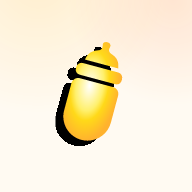
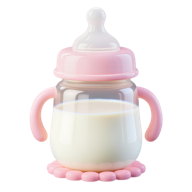
发布：前端更新
时间：2026-02-14 09:37
文件：10

修改日志：
- 修改 frontend/index.html
- 修改 frontend/src/components/FeedingTimeline24.vue
- 修改 frontend/src/pages.json
- 修改 frontend/src/pages/feeding-settings/index.vue
- 修改 frontend/src/pages/home/index.vue
- 修改 frontend/src/static/app-icon/apple-touch-icon.png
- 修改 frontend/src/static/app-icon/favicon-16.png
- 修改 frontend/src/static/app-icon/favicon-32.png
- 修改 frontend/src/static/app-icon/icon-192.png
- 修改 frontend/src/static/app-icon/icon-512.png

diff --git a/frontend/src/pages/home/index.vue b/frontend/src/pages/home/index.vue
@@ -154,7 +154,7 @@
 
         <view class="focus-card">
           <FeedingTimeline24
-            :marks="todayTimelineMarks"
+            :marks="homeTimelineMarks"
             :selectedKey="selectedTimelineKey"
             :nowMs="nowTickMs"
             :nextMs="nextFeedingTimestampMs"
@@ -730,7 +730,15 @@ import { formatZodiacText } from '@/utils/zodiac'
     },
 
     homeStatusText() {
-      if (this.todayCount <= 0) return '今天还没记录'
+      if (this.todayCount <= 0) {
+        const standard = Number(this.todayTargetMl || 0)
+        const expected = Number(this.expectedNowMl || 0)
+        if (!Number.isFinite(standard) || standard <= 0) return '今天还没记录'
+        const ratio = standard > 0 ? expected / standard : 0
+        if (ratio >= 0.75) return '今天还没记录（警报）'
+        if (ratio >= 0.55) return '今天还没记录（偏晚）'
+        return '今天还没记录'
+      }
 
       const interval = this.getIntervalInsight()
       if (interval?.status === 'overdue') return '该喂奶了'
@@ -756,8 +764,16 @@ import { formatZodiacText } from '@/utils/zodiac'
     },
 
     insightLevel() {
-      // 没有任何记录时，不做“优/差”判断，先引导记录，避免制造焦虑。
-      if (this.todayCount <= 0) return 'unknown'
+      // 没有任何记录时：早期不制造焦虑；但如果已经到傍晚仍为 0，则给出醒目的红色信号。
+      if (this.todayCount <= 0) {
+        const standard = Number(this.todayTargetMl || 0)
+        const expected = Number(this.expectedNowMl || 0)
+        if (!Number.isFinite(standard) || standard <= 0) return 'unknown'
+        const ratio = standard > 0 ? expected / standard : 0
+        if (ratio >= 0.75) return 'alert'
+        if (ratio >= 0.55) return 'attention'
+        return 'unknown'
+      }
 
       const feedingStatus = this.feedingStatusForHome()
       const interval = this.getIntervalInsight()
@@ -969,6 +985,68 @@ import { formatZodiacText } from '@/utils/zodiac'
       const t = this.formatClockText(ms)
       if (!t || t === '--:--') return ''
       return amountText ? `${t} · ${amountText}` : t
+    },
+
+    // 时间轴：预估“今天后续应喂时间点”（辅助规划睡眠）
+    // - 仅在今日已有记录时展示（避免“未记录但已喂”的误判）
+    // - 预估点只做视觉辅助，不可点击/不参与统计
+    todayPlanTimelineMarks() {
+      const list = Array.isArray(this.todayFeedings) ? this.todayFeedings : []
+      if (list.length <= 0) return []
+
+      const fs = this.feedingSettings || null
+      const dayStart = Number(fs?.day_start_hour ?? 6)
+      const dayEnd = Number(fs?.day_end_hour ?? 18)
+      const dayInt = Number(fs?.day_interval ?? 3)
+      const nightInt = Number(fs?.night_interval ?? 5)
+
+      const safeDayStart = Number.isFinite(dayStart) ? Math.max(0, Math.min(23, dayStart)) : 6
+      const safeDayEnd = Number.isFinite(dayEnd) ? Math.max(0, Math.min(23, dayEnd)) : 18
+      const safeDayInt = Number.isFinite(dayInt) && dayInt > 0 ? dayInt : 3
+      const safeNightInt = Number.isFinite(nightInt) && nightInt > 0 ? nightInt : 5
+
+      const base = Number(this.nextFeedingTimestampMs || 0)
+      if (!Number.isFinite(base) || base <= 0) return []
+
+      const nowMs = Number(this.nowTickMs || Date.now())
+      const now = new Date(nowMs)
+      if (Number.isNaN(now.getTime())) return []
+      const start = new Date(now.getFullYear(), now.getMonth(), now.getDate(), 0, 0, 0, 0).getTime()
+      const end = start + 24 * 60 * 60 * 1000
+
+      // 只画“未来”预估点：避免和已记录点混在一起造成误读
+      let t = Math.max(base, nowMs)
+      if (t < start || t >= end) return []
+
+      const marks = []
+      const maxMarks = 12
+      let guard = 0
+      while (t < end && guard < maxMarks) {
+        const d = new Date(t)
+        if (Number.isNaN(d.getTime())) break
+        const minutes = d.getHours() * 60 + d.getMinutes()
+        const leftPercent = Math.max(0, Math.min(100, (Number(minutes) / 1440) * 100))
+        marks.push({
+          key: `p-${t}`,
+          kind: 'plan',
+          leftPercent: leftPercent.toFixed(2),
+        })
+
+        const hh = d.getHours()
+        const interval = hh >= safeDayStart && hh < safeDayEnd ? safeDayInt : safeNightInt
+        const next = t + interval * 60 * 60 * 1000
+        if (!Number.isFinite(next) || next <= t) break
+        t = next
+        guard++
+      }
+
+      return marks
+    },
+
+    homeTimelineMarks() {
+      const real = Array.isArray(this.todayTimelineMarks) ? this.todayTimelineMarks : []
+      const plan = Array.isArray(this.todayPlanTimelineMarks) ? this.todayPlanTimelineMarks : []
+      return plan.length ? real.concat(plan) : real
     },
 
     todayTimelineMarks() {

diff --git a/frontend/src/pages/feeding-settings/index.vue b/frontend/src/pages/feeding-settings/index.vue
@@ -71,11 +71,51 @@
         />
       </view>
 
+    <!-- 时间段（影响“白天/晚上”的间隔应用范围） -->
+    <view class="section">
+      <view class="section-header">
+        <text class="section-title">时间段</text>
+        <text class="section-desc">把“晚上”对齐你的睡觉时间，能更少夜醒</text>
+      </view>
+
+      <view class="range-row">
+        <view class="range-col">
+          <text class="range-label">白天开始</text>
+          <scroll-view class="number-picker" scroll-x>
+            <view
+              v-for="h in hourNumbers"
+              :key="'ds-' + h"
+              :class="['number-item', { active: h === settings.dayStartHour }]"
+              @click="selectDayStartHour(h)"
+            >
+              <text>{{ pad2(h) }}</text>
+            </view>
+          </scroll-view>
+        </view>
+
+        <view class="range-col">
+          <text class="range-label">白天结束</text>
+          <scroll-view class="number-picker" scroll-x>
+            <view
+              v-for="h in hourNumbers"
+              :key="'de-' + h"
+              :class="['number-item', { active: h === settings.dayEndHour }]"
+              @click="selectDayEndHour(h)"
+            >
+              <text>{{ pad2(h) }}</text>
+            </view>
+          </scroll-view>
+        </view>
+      </view>
+
+      <text class="picker-hint">白天：{{ pad2(settings.dayStartHour) }}:00-{{ pad2(settings.dayEndHour) }}:00 · 晚上：{{ pad2(settings.dayEndHour) }}:00-{{ pad2(settings.dayStartHour) }}:00</text>
+    </view>
+
     <!-- 白天设置 -->
     <view class="section">
       <view class="section-header">
         <text class="section-title">白天</text>
-        <text class="section-desc">早上6点-晚上18点</text>
+        <text class="section-desc">每隔 {{ settings.dayInterval }} 小时</text>
       </view>
       <view class="number-picker-container">
         <scroll-view class="number-picker" scroll-x>
@@ -95,7 +135,7 @@
     <view class="section">
       <view class="section-header">
         <text class="section-title">晚上</text>
-        <text class="section-desc">晚上18点-早上06点</text>
+        <text class="section-desc">每隔 {{ settings.nightInterval }} 小时</text>
       </view>
       <view class="number-picker-container">
         <scroll-view class="number-picker" scroll-x>
@@ -235,6 +275,7 @@ export default {
       nextFeedingTimestampMs: null,
       dayNumbers: [1, 2, 3, 4, 5],
       nightNumbers: [3, 4, 5, 6, 7],
+      hourNumbers: Array.from({ length: 24 }, (_, i) => i),
       advanceNumbers: [5, 10, 15, 20, 30],
       dirty: false,
       saving: false,
@@ -440,6 +481,38 @@ export default {
       if (!this.canEdit) return
       this.dirty = true
     },
+
+    pad2(n) {
+      const v = Number(n)
+      if (!Number.isFinite(v)) return '--'
+      return String(Math.max(0, Math.min(23, v))).padStart(2, '0')
+    },
+
+    selectDayStartHour(h) {
+      if (!this.guardEdit()) return
+      const v = Number(h)
+      const end = Number(this.settings.dayEndHour)
+      if (!Number.isFinite(v)) return
+      if (Number.isFinite(end) && v >= end) {
+        uni.showToast({ title: '白天开始需早于白天结束', icon: 'none' })
+        return
+      }
+      this.settings.dayStartHour = Math.max(0, Math.min(23, v))
+      this.markDirty()
+    },
+
+    selectDayEndHour(h) {
+      if (!this.guardEdit()) return
+      const v = Number(h)
+      const start = Number(this.settings.dayStartHour)
+      if (!Number.isFinite(v)) return
+      if (Number.isFinite(start) && v <= start) {
+        uni.showToast({ title: '白天结束需晚于白天开始', icon: 'none' })
+        return
+      }
+      this.settings.dayEndHour = Math.max(0, Math.min(23, v))
+      this.markDirty()
+    },
     
     selectDayInterval(num) {
       if (!this.guardEdit()) return
@@ -636,6 +709,24 @@ export default {
 .section-desc {
   font-size: 14px;
   color: var(--nb-muted);
+}
+
+.range-row {
+  display: flex;
+  flex-direction: column;
+  gap: 14px;
+}
+
+.range-col {
+  width: 100%;
+}
+
+.range-label {
+  display: block;
+  font-size: 13px;
+  font-weight: 700;
+  color: rgba(var(--nb-ink-rgb), 0.70);
+  margin-bottom: 10px;
 }
 
 .number-picker-container {

diff --git a/frontend/src/components/FeedingTimeline24.vue b/frontend/src/components/FeedingTimeline24.vue
@@ -34,10 +34,14 @@
       >
         <view
           class="ft24-dot"
-          :class="{ active: selectedKey === String(m.key), latest: !!m.isLatest }"
+          :class="{ active: selectedKey === String(m.key), latest: !!m.isLatest, plan: m.kind === 'plan' }"
           @click.stop="handleMarkTap(m)"
         ></view>
-        <view v-if="Number(m.count || 0) > 1" class="ft24-badge" @click.stop="handleMarkTap(m)">
+        <view
+          v-if="m.kind !== 'plan' && Number(m.count || 0) > 1"
+          class="ft24-badge"
+          @click.stop="handleMarkTap(m)"
+        >
           <text class="ft24-badge-text">{{ Number(m.count || 0) }}</text>
         </view>
       </view>
@@ -78,6 +82,10 @@
         <view class="ft24-legend-item">
           <view class="ft24-legend-dot hollow"></view>
           <text class="ft24-legend-label">下次</text>
+        </view>
+        <view v-if="hasPlanMarks" class="ft24-legend-item">
+          <view class="ft24-legend-dot plan"></view>
+          <text class="ft24-legend-label">预估</text>
         </view>
         <view class="ft24-legend-item">
           <view class="ft24-legend-now">
@@ -140,6 +148,7 @@ export default {
           key: m?.key != null ? String(m.key) : '',
           leftPercent: clampPct(m?.leftPercent),
           count: Number(m?.count || 0),
+          kind: String(m?.kind || ''),
         }))
         .filter((m) => m.key && m.leftPercent !== '')
 
@@ -164,7 +173,8 @@ export default {
         laneLastLeft[lane] = left
 
         const isSelected = selected && String(m.key) === selected
-        const zIndex = 2
+        const baseZ = m.kind === 'plan' ? 1 : 2
+        const zIndex = baseZ
           + (isSelected ? 10 : 0)
           + (m.isLatest ? 6 : 0)
           + (lane === 1 ? 2 : lane === 2 ? 1 : 0)
@@ -191,6 +201,9 @@ export default {
     metaVisible() {
       return !!(this.summaryText || this.latestText)
     },
+    hasPlanMarks() {
+      return (this.safeMarks || []).some((m) => String(m?.kind || '') === 'plan')
+    },
   },
   created() {
     if (!this.showLegendOnce) return
@@ -207,6 +220,7 @@ export default {
     },
     handleMarkTap(m) {
       if (!m || !m.key) return
+      if (String(m.kind || '') === 'plan') return
       this.$emit('select', String(m.key))
     },
     closeLegend() {
@@ -321,6 +335,15 @@ export default {
 .ft24-dot.next {
   background: rgba(255, 255, 255, 0.92);
   border-color: rgba(27, 26, 23, 0.42);
+}
+
+.ft24-dot.plan {
+  width: 8px;
+  height: 8px;
+  background: rgba(255, 255, 255, 0.80);
+  border-color: rgba(27, 26, 23, 0.22);
+  box-shadow: none;
+  pointer-events: none;
 }
 
 .ft24-badge {
@@ -511,6 +534,11 @@ export default {
 .ft24-legend-dot.hollow {
   background: rgba(255, 255, 255, 0.92);
   border: 2px solid rgba(27, 26, 23, 0.42);
+}
+
+.ft24-legend-dot.plan {
+  background: rgba(255, 255, 255, 0.80);
+  border: 2px solid rgba(27, 26, 23, 0.22);
 }
 
 .ft24-legend-now {

diff --git a/frontend/index.html b/frontend/index.html
@@ -9,10 +9,11 @@
   <meta name="apple-mobile-web-app-title" content="奶宝">
   <meta name="apple-mobile-web-app-status-bar-style" content="default">
   <title>奶宝</title>
-  <link rel="manifest" href="/static/manifest.webmanifest">
-  <link rel="apple-touch-icon" sizes="180x180" href="/static/app-icon/apple-touch-icon.png">
-  <link rel="icon" type="image/png" sizes="32x32" href="/static/app-icon/favicon-32.png">
-  <link rel="icon" type="image/png" sizes="16x16" href="/static/app-icon/favicon-16.png">
+  <!-- iOS/Safari 对主屏幕图标缓存很激进：加版本号方便后续替换 icon。 -->
+  <link rel="manifest" href="/static/manifest.webmanifest?v=20260214">
+  <link rel="apple-touch-icon" sizes="180x180" href="/static/app-icon/apple-touch-icon.png?v=20260214">
+  <link rel="icon" type="image/png" sizes="32x32" href="/static/app-icon/favicon-32.png?v=20260214">
+  <link rel="icon" type="image/png" sizes="16x16" href="/static/app-icon/favicon-16.png?v=20260214">
   <style>
     html, body {
       height: 100%;
